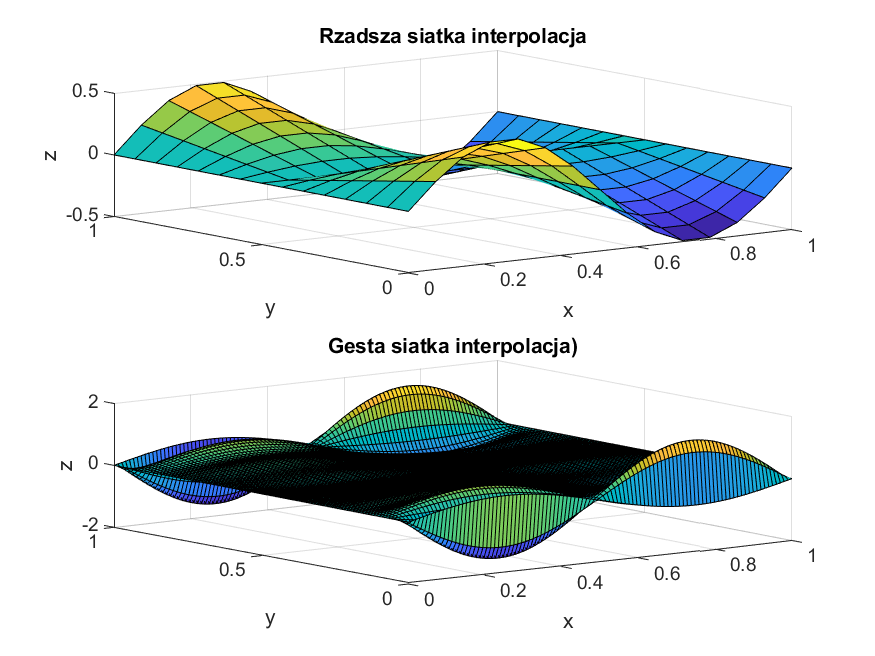
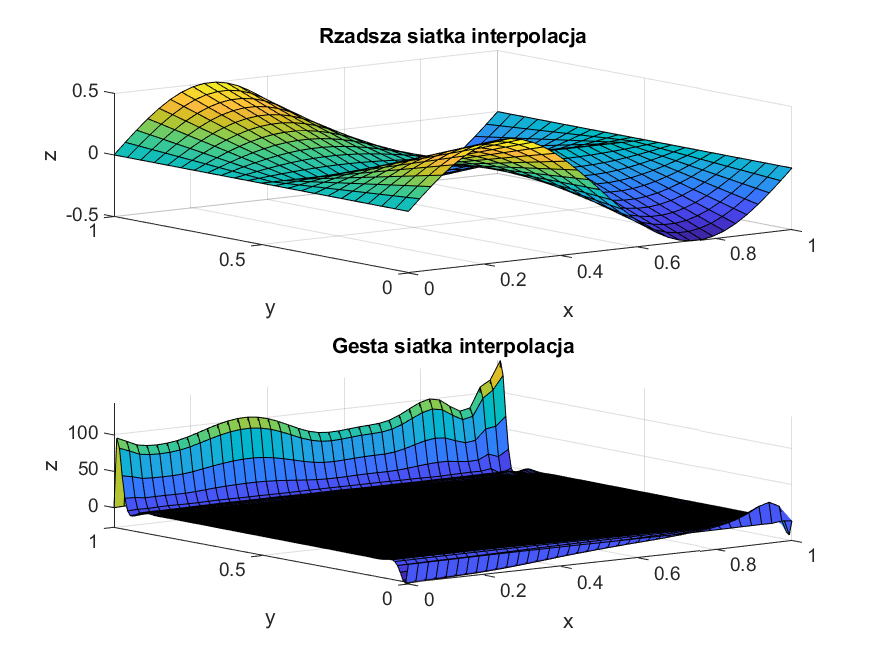
Final lab5

Changed region(s): [[0.0617, 0.5183, 0.9257, 0.8841], [0.1234, 0.122, 0.8949, 0.3659], [0.0617, 0.6402, 0.1234, 0.6707]]

diff --git a/lab5/zadanie5.m b/lab5/zadanie5.m
@@ -1,8 +1,8 @@
 function [M,N,P,R,x_coarse,y_coarse,F_coarse,x_fine,y_fine,F_fine] = zadanie5()
-P = 100; % liczba unikalnych współrzędnych x punktów dla których będzie obliczana interpolacja
-R = 100; % liczba unikalnych współrzędnych y punktów dla których będzie obliczana interpolacja
-M = 15; % liczba węzłów interpolacji wzdłuż osi X (stopień wielomianu zmiennej x: M-1)
-N = 15; % liczba węzłów interpolacji wzdłuż osi Y (stopień wielomianu zmiennej y: N-1)
+P = 39; % liczba unikalnych współrzędnych x punktów dla których będzie obliczana interpolacja
+R = 109; % liczba unikalnych współrzędnych y punktów dla których będzie obliczana interpolacja
+M = 35; % liczba węzłów interpolacji wzdłuż osi X (stopień wielomianu zmiennej x: M-1)
+N = 23; % liczba węzłów interpolacji wzdłuż osi Y (stopień wielomianu zmiennej y: N-1)
 
 % Generowanie węzłów interpolacji na płaszczyźnie
 x_coarse = linspace(0, 1, M);
